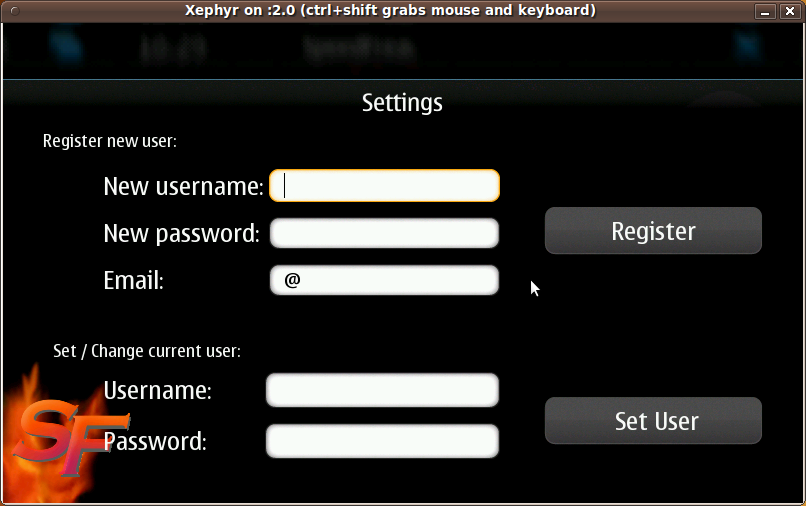
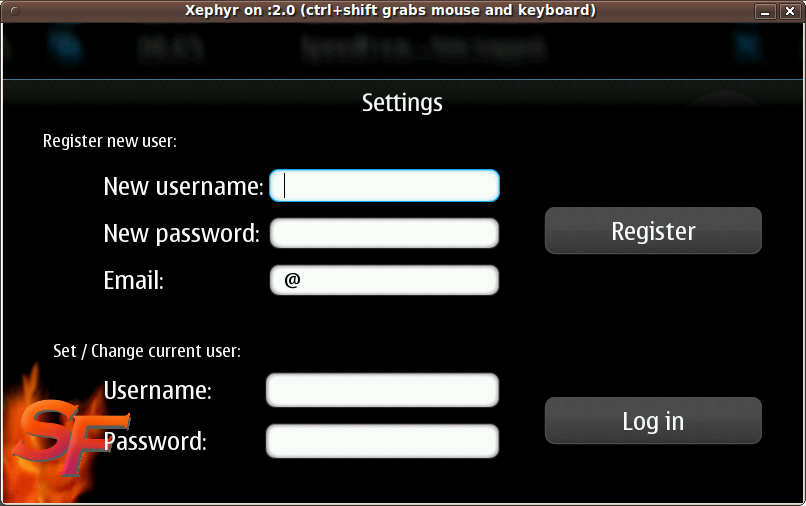
Bugfix: Settings help dialog has wrong names in buttons because changes have been done in settings dialog.

diff --git a/Client/mainwindow.cpp b/Client/mainwindow.cpp
@@ -41,7 +41,7 @@ MainWindow::MainWindow(QWidget *parent) :
     connect(httpClient->myXmlreader, SIGNAL(receivedTop10List()), this, SLOT(showTop10()));    
 
     welcomeDialog = new WelcomeDialog;
-    //welcomeDialog->show();
+    welcomeDialog->show();
 
     this->setUsernameToMainPanel();
 
